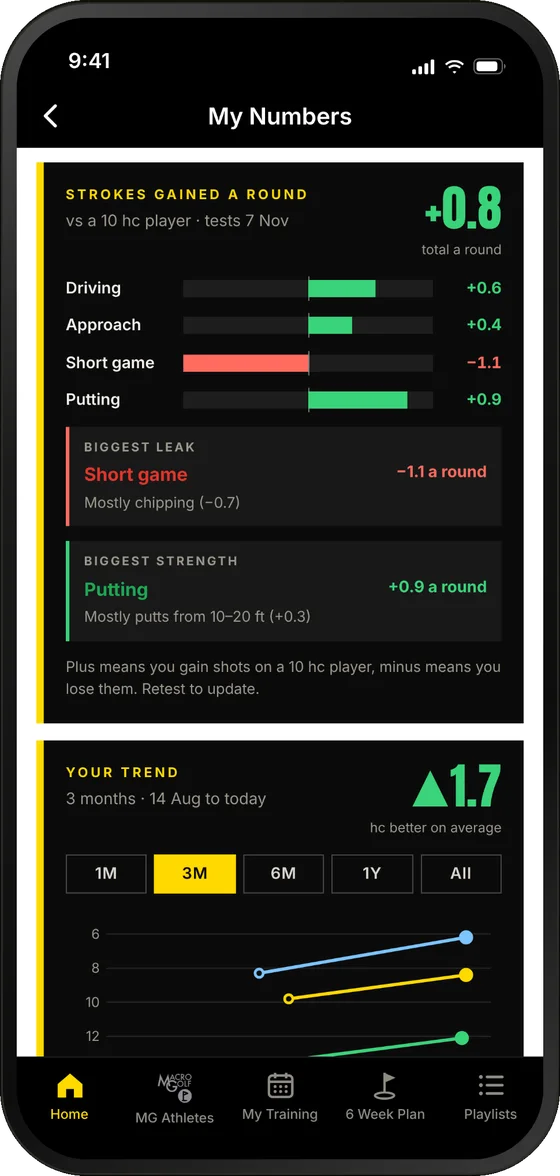
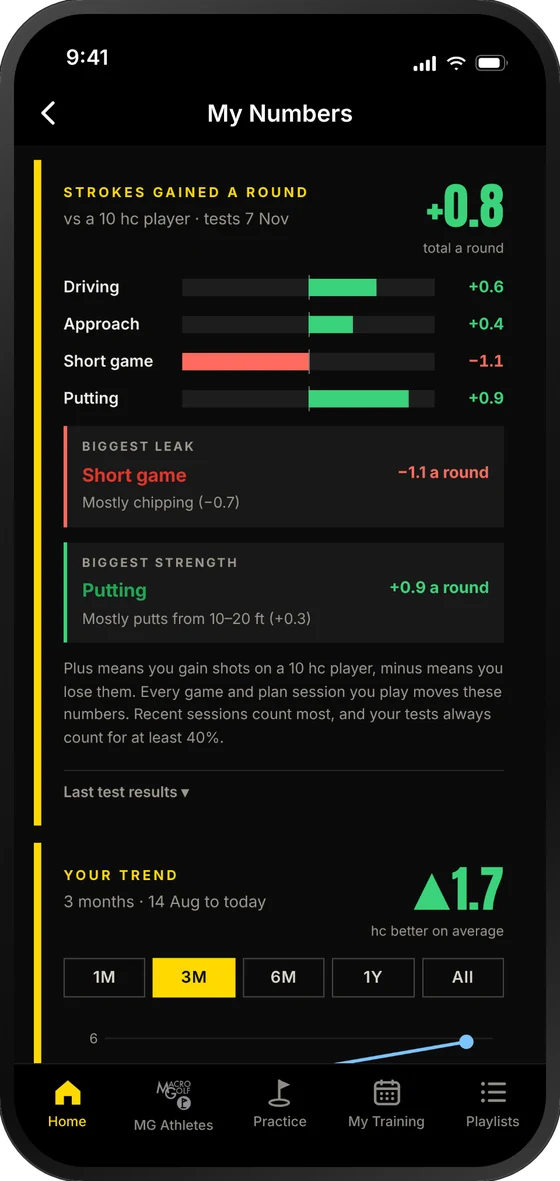
Website phone pictures remade from the fixed App Store slides (Practice tab, Build My Plan, dark screens); App Store update 2 logged
Claude-Session: https://claude.ai/code/session_01DkSaFspKHERjZZRZYzDpGf

diff --git a/WORKLOG.md b/WORKLOG.md
@@ -3,6 +3,7 @@
 Shared log between Joe's, Jack's and Sam's Claude. Newest at the top. One line per start or finish:
 `YYYY-MM-DD HH:MM · who · what · status`
 
+2026-11-13 17:45 · Jack's Claude · FOR JOE'S CLAUDE: App Store update 2 done per Joe's list, on branch app-store-pack (commit 1f6f1eb, read docs/for-joe-app-store-pack.md there): slide 8 now Build My Plan (no Pure plan); tab bar Home · MG Athletes · Practice · My Training · Playlists on every slide; slides 1 and 3 dark edge to edge; NEW iPad 2048x2732 JPG ×7, Android 10-inch tablet 1536x2048 JPG ×7, Android feature graphic 1024x500; iPhone X/8 VidApp JPGs remade. Website phone pictures assets/web/phone-*.webp remade (phone only, transparent, 560 wide) on main: re-pin /app and /download to show them. Nothing uploaded to VidApp (Joe only). Preview video + overview.png not remade. Removed the FOR JACK'S CLAUDE App Store section from CLAUDE.md · done, waiting on Joe's Claude to upload
 2026-11-13 17:08 · Joe's Claude · VidApp App Store › Android UPDATED (Joe's go-ahead): Android Title 'Macro Golf' → 'Macro Golf: Practice & Stats'; Short Description 'Golf Performance Training' → 'Strokes gained tests, a practice plan built from them, scored games and streaks.'; Full Description → Jack's listing text (old text is the same as the old iOS one, backed up on app-store-pack). Phone screenshots 1-8 replaced with Jack's 8 slides (1242x2208). Feature graphic and 10-inch tablet screenshots unchanged (no pack yet). No build or submission. OUT OF VIDAPP · saved
 2026-11-13 16:58 · Joe's Claude · IN VIDAPP: App Store › Android, same pack as iOS (Joe's go-ahead). No build or submission · in progress
 2026-11-13 17:08 · Joe's Claude · FOR JACK'S CLAUDE (adds to the iPad note): Android needs its own sizes too: 10-inch tablet screenshots JPG 1536x2048 (up to 7) and a new feature graphic JPG/PNG 1024x500 (the current one is the 2023 logo-only banner). Same branch, Joe's Claude uploads · waiting on Jack

diff --git a/CLAUDE.md b/CLAUDE.md
@@ -6,14 +6,6 @@ Three people work on this repo with their own Claude: **Joe** (founder, fitness 
 
 Joe, Jack and Sam meet tonight. **Ask your human now:** "Joe has a list of decisions for tonight's meeting. Is there anything you want to add?" Read them the list in `docs/meeting-2026-11-13.md`. Add their items under **Added by Jack** / **Added by Sam** (or a note against an existing number). If they have nothing, write "Nothing to add" there. Then commit, push and log a line in `WORKLOG.md`. Joe's Claude collects everything at 17:00 and removes this section after the meeting.
 
-## FOR JACK'S CLAUDE (from Joe, 13 Nov): App Store screenshots to update
-
-1. **Tablet sizes and Android extras:** iPad JPG 2048x2732 (up to 7); Android 10-inch tablet JPG 1536x2048 (up to 7); a new Android feature graphic JPG/PNG 1024x500 (the current one is the 2023 logo-only banner).
-2. **Fix two things in the slides:** the 'Move better, swing faster' slide shows a parked Pure plan (Pure Power); use Build My Plan or a 1-to-1 template plan instead. The bottom tab bar still says '6 Week Plan'; it's 'Practice' now. Slides 1 ('Find where you lose shots') and 3 ('A 6 week plan from your tests') show a white surround around the cards inside the phone; remove it so the screen is dark edge to edge like the other slides.
-3. **Website phone pictures** (`assets/web/phone-*.webp`, used on www.macro.golf/app and /download): remake them from the fixed slides (phone only, transparent background, about 560 px wide).
-
-Pack on the `app-store-pack` branch (not `main`); the small web pictures go on `main`. Log it in `WORKLOG.md`; Joe's Claude uploads to VidApp and re-pins the pages. Remove this section once done.
-
 ## First run for Jack's Claude (one time only)
 
 If you are working for Jack and `WORKLOG.md` has no line saying "Jack's Claude has picked up CLAUDE.md", do this first:
